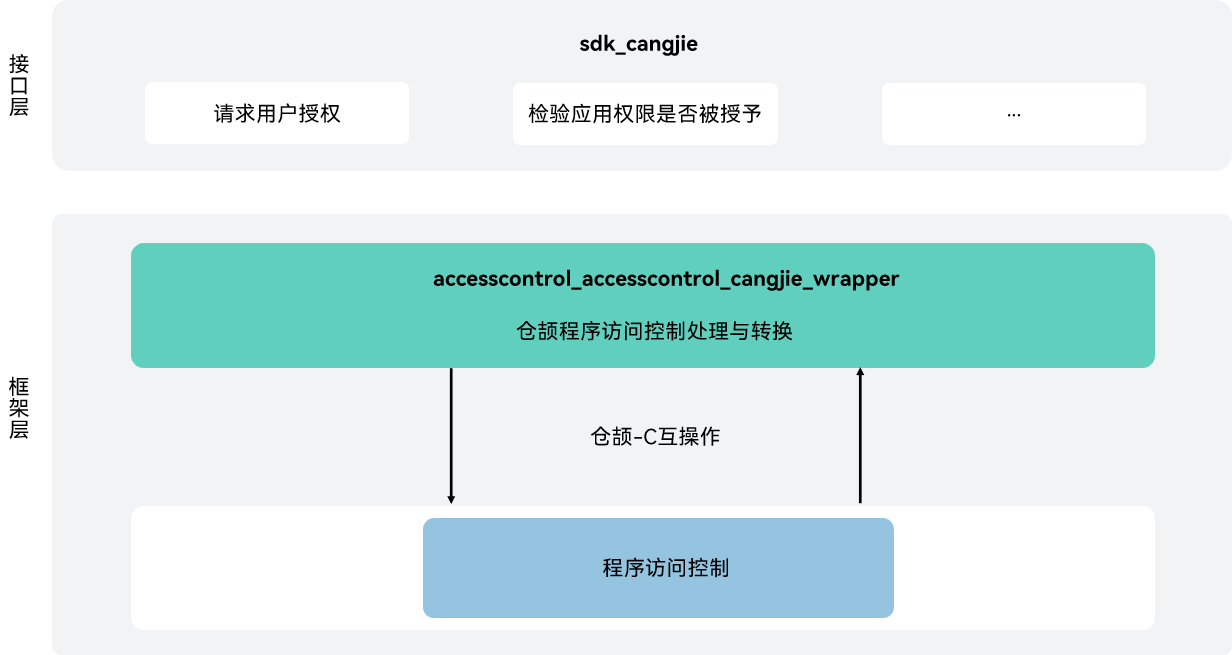
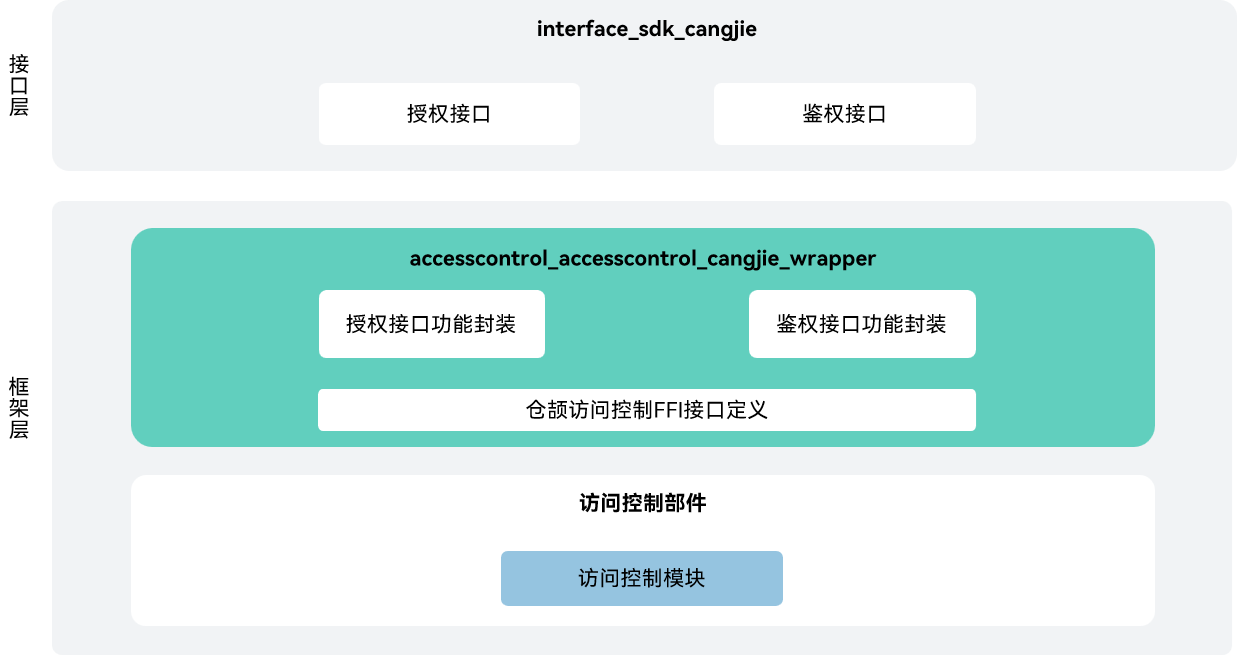
fix_readme_review

diff --git a/README_zh.md b/README_zh.md
@@ -1,37 +1,43 @@
-# 程序访问控制仓颉接口
+# 访问控制仓颉接口
 
 ## 简介
 
-程序访问控制仓颉接口是在OpenHarmony上基于AccessToken能力之上封装的仓颉API。应用的Accesstoken信息主要包括应用身份标识APPID、用户ID，应用分身索引、应用APL(Ability Privilege Level)等级、应用权限信息等。每个应用的Accesstoken信息由一个32bits的设备内唯一标识符TokenID(Token identity)来标识。
+访问控制仓颉接口是在OpenHarmony上基于AccessToken能力之上封装的仓颉API。应用的Accesstoken信息主要包括应用身份标识APPID、用户ID，应用分身索引、应用APL(Ability Privilege Level)等级、应用权限信息等。每个应用的Accesstoken信息由一个32bits的设备内唯一标识符TokenID(Token identity)来标识。仓颉接口提供应用程序的权限校验、申请和管理能力。当前开放的访问控制仓颉接口仅支持standard设备。
 
 ## 系统架构
 
-**图 1** 程序访问控制仓颉架构图
+**图 1** 访问控制仓颉架构图
 
-![](figures/accesscontrol_cangjie_wrapper_architecture.png "程序访问控制仓颉架构图")
+![访问控制仓颉架构图](figures/accesscontrol_cangjie_wrapper_architecture.png)
+
+如架构图所示：
+
+- 请求用户授权：开发者可调用requestPermissionsFromUser接口请求用户授权，并返回此次权限申请的结果。访问控制提供应用程序的权限校验和管理能力。
+- 检验应用权限是否被授予： 开发者可通过checkAccessToken查看应用是否被授权。
+- 仓颉访问控制FFI接口定义：负责定义C互操作仓颉接口，用于实现仓颉访问控制能力。
+- 访问控制模块：负责提供访问控制基础功能，封装C接口提供给仓颉进行互操作。
+
 
 ## 目录
 
-程序访问控制仓颉源码在base/accesscontrol/accesstrol_cangjie_wrapper下
+访问控制仓颉源码在base/accesscontrol/accesstrol_cangjie_wrapper下
 
 ```
 base/accesscontrol/accesscontrol_cangjie_wrapper
-├── figures                 # 存放readme中的架构图
-└── ohos                    # 仓颉程序访问控制接口
-    ├── ability_access_ctrl # 仓颉程序访问控制管理接口
+├── figures                 # 存放README中的架构图
+└── ohos                    # 仓颉访问控制接口
+    ├── ability_access_ctrl # 仓颉访问控制管理接口
     └── security            # 权限请求结果对象
 ```
 
-## 约束
-
-当前开放的程序访问控制仓颉接口仅支持standard设备。
 
 ## 使用说明
 
-如架构图所示，程序访问控制仓颉接口以下功能接口，开发者可以根据使用诉求，综合使用一类或多类接口：
+访问控制仓颉接口提供以下功能，开发者可以根据使用诉求，综合使用一类或多类接口：
 
-  - 程序访问控制提供应用程序的权限校验和管理能力。用户可通过提供的接口申请和查看应用权限。
+  - 访问控制提供应用程序的权限校验和管理能力。开发者可通过提供的接口申请和查看应用权限。
   - 权限请求结果对象可以在用户调用requestPermissionsFromUser接口申请权限时返回此次权限申请的结果。
+
 
 与ArkTS相比，暂不支持以下功能：
 
@@ -39,7 +45,8 @@ base/accesscontrol/accesscontrol_cangjie_wrapper
   - 拉起全局开关设置。
   - 二次拉起权限设置弹窗。
 
-程序访问控制相关API请参见[ohos.ability_access_ctrl（程序访问控制管理）](https://gitcode.com/openharmony-sig/arkcompiler_cangjie_ark_interop/blob/master/doc/API_Reference/source_zh_cn/apis/AbilityKit/cj-apis-ability_access_ctrl.md)，相关指导请参见[程序框架服务开发指南](https://gitcode.com/openharmony-sig/arkcompiler_cangjie_ark_interop/tree/master/doc/Dev_Guide/source_zh_cn/application-models)。
+
+访问控制相关API请参见[ohos.ability_access_ctrl（程序访问控制管理）](https://gitcode.com/openharmony-sig/arkcompiler_cangjie_ark_interop/blob/master/doc/API_Reference/source_zh_cn/apis/AbilityKit/cj-apis-ability_access_ctrl.md)，相关指导请参见[程序框架服务开发指南](https://gitcode.com/openharmony-sig/arkcompiler_cangjie_ark_interop/tree/master/doc/Dev_Guide/source_zh_cn/application-models)。
 
 ## 参与贡献
 
@@ -48,3 +55,11 @@ base/accesscontrol/accesscontrol_cangjie_wrapper
 ## 相关仓
 
 [security_access_token](https://gitee.com/openharmony/security_access_token)
+
+[arkcompiler_cangjie_ark_interop](https://gitcode.com/openharmony-sig/arkcompiler_cangjie_ark_interop)
+
+[ability_ability_cangjie_wrapper](https://gitcode.com/openharmony-sig/ability_ability_cangjie_wrapper)
+
+[arkui_arkui_cangjie_wrapper](https://gitcode.com/openharmony-sig/arkui_arkui_cangjie_wrapper)
+
+[hiviewdfx_hiviewdfx_cangjie_wrapper](https://gitcode.com/openharmony-sig/hiviewdfx_hiviewdfx_cangjie_wrapper)

diff --git a/README.md b/README.md
@@ -2,13 +2,20 @@
 
 ## Introduction
 
-The accesscontrol_cangjie_wrapper is a Cangjie API encapsulated on OpenHarmony based on the access_token capability. The access_token information of the application mainly includes the application identity APPID, user ID, application clone index, application APL (Ability Privilege Level) level, application permission information, etc. The access_token information of each application is identified by a 32-bit unique device identifier, TokenID.
+The accesscontrol_cangjie_wrapper is a Cangjie API encapsulated on OpenHarmony based on the access_token capability. The access_token information of the application mainly includes the application identity APPID, user ID, application clone index, application APL (Ability Privilege Level) level, application permission information, etc. The access_token information of each application is identified by a 32-bit unique device identifier, TokenID. Cangjie apis provides APIs for application permission management, including authentication and authorization. The currently accesscontrol Cangjie api only supports standard devices.
 
 ## System Architecture
 
 **Figure 1** System architecture of accesscontrol_cangjie_wrapper
 
-![](figures/accesscontrol_cangjie_wrapper_architecture_en.png "accesscontrol_cangjie_wrapper architecture")
+![accesscontrol_cangjie_wrapper architecture](figures/accesscontrol_cangjie_wrapper_architecture_en.png)
+
+As shown in the architecture diagram:
+
+- requestPermissionsFromUser: Developers can call the requestPermissionsFromUser to request user authorization, and the result of this permission application will be returned.
+- checkAccessToken: accesscontrol_cangjie_wrapper provides permission verification and management capabilities for applications. Developers can use checkAccessToken to check whether an application has been authorized.
+- Cangjie Accesscontrol FFI interface: Based on cross-language interoperability via C interfaces to implement accesscontrol Cangjie API.
+- access_token: It is responsible for providing basic functions of application access control, and encapsulates C interfaces to provide interoperability for Cangjie.
 
 ## Directory Structure
 
@@ -22,10 +29,6 @@ base/accesscontrol/accesscontrol_cangjie_wrapper
     └── security            # Permission request result object
 ```
 
-## Constraints
-
-The currently open accesscontrol Cangjie api only supports standard devices.
-
 ## Usage Guidelines
 
 The following features are provided:
@@ -33,11 +36,13 @@ The following features are provided:
   - The AbilityAccessCtrl module provides APIs for application permission management, including authentication and authorization.
   - The PermissionRequestResult module defines the permission request result returned by requestPermissionsFromUser.
 
+
 The following features are not provided yet:
 
   - Check the status of application permissions.
   - Displays a dialog box for setting a global swich.
   - Displays a permission settings dialog box to grant permissions the second time.
+
 
 For Accesscontrol-related APIs, please refer to [ohos.ability_access_ctrl (Application Access Control Management)](https://gitcode.com/openharmony-sig/arkcompiler_cangjie_ark_interop/blob/master/doc/API_Reference/source_en/apis/AbilityKit/cj-apis-ability_access_ctrl.md). For relevant guidance, please refer to [Ability Kit Guide](https://gitcode.com/openharmony-sig/arkcompiler_cangjie_ark_interop/tree/master/doc/Dev_Guide/source_en/application-models).
 
@@ -48,3 +53,11 @@ Developers are welcome to contribute code, documentation, etc. For specific cont
 ## Repositories Involved
 
 [security_access_token](https://gitee.com/openharmony/security_access_token)
+
+[arkcompiler_cangjie_ark_interop](https://gitcode.com/openharmony-sig/arkcompiler_cangjie_ark_interop)
+
+[ability_ability_cangjie_wrapper](https://gitcode.com/openharmony-sig/ability_ability_cangjie_wrapper)
+
+[arkui_arkui_cangjie_wrapper](https://gitcode.com/openharmony-sig/arkui_arkui_cangjie_wrapper)
+
+[hiviewdfx_hiviewdfx_cangjie_wrapper](https://gitcode.com/openharmony-sig/hiviewdfx_hiviewdfx_cangjie_wrapper)
